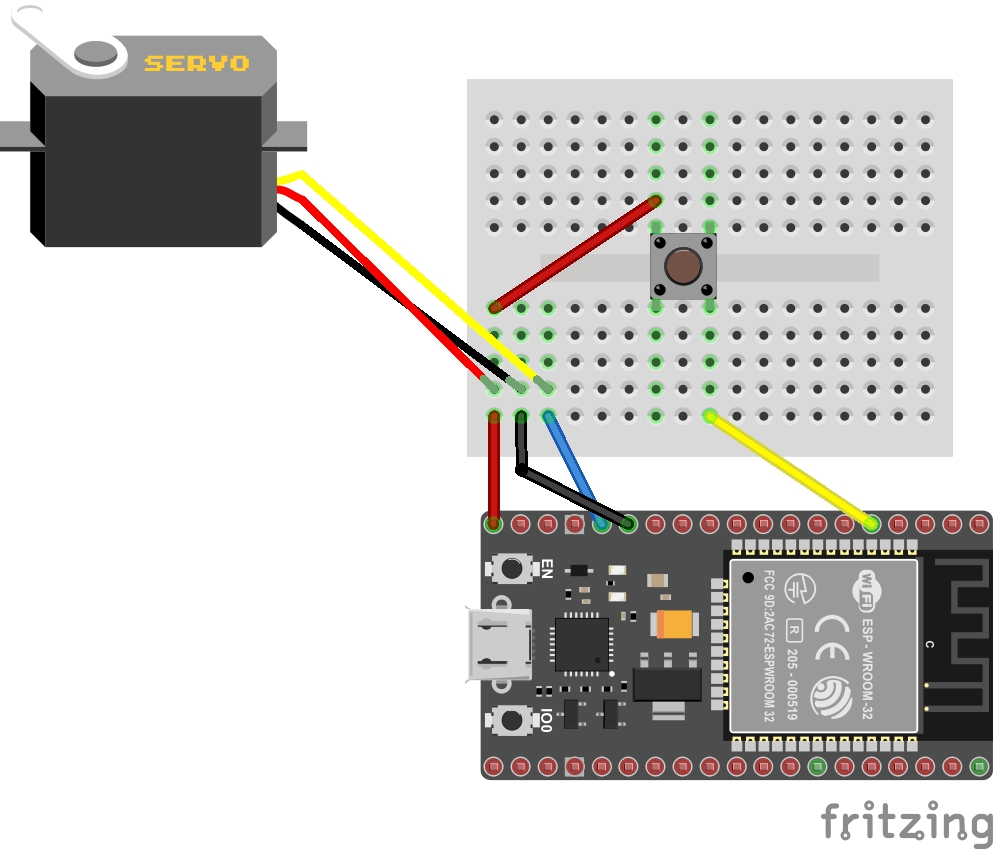
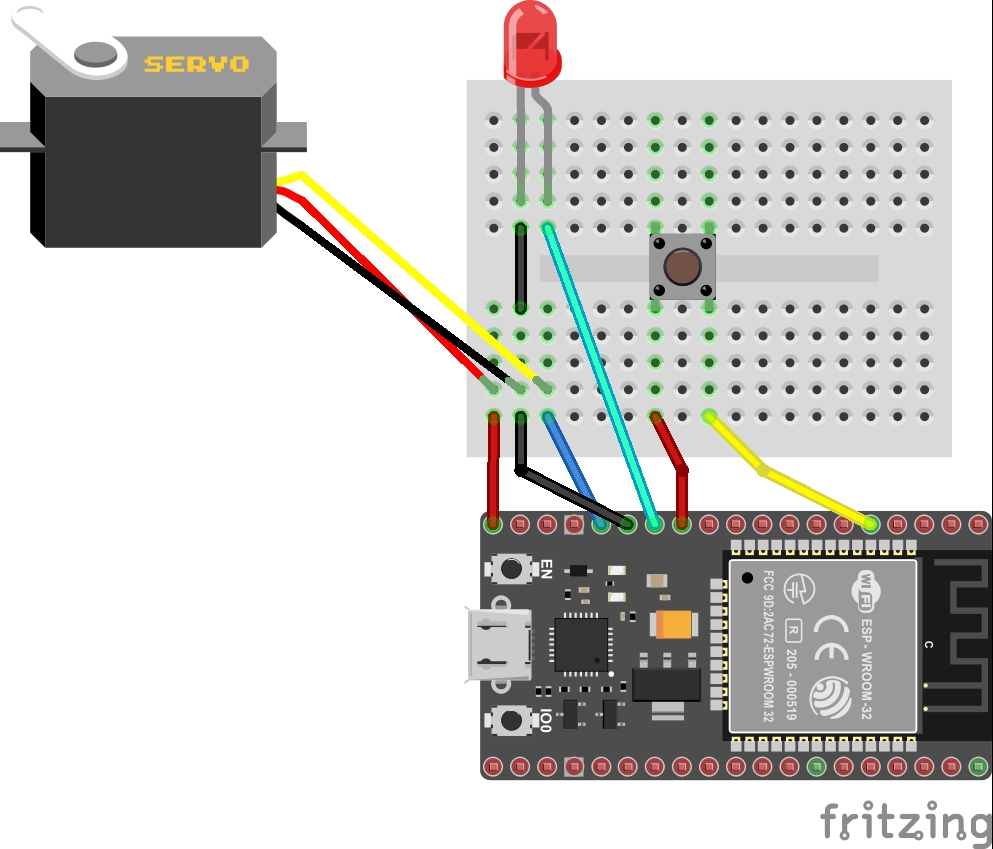
Convertido para projeto platformio

diff --git a/src/main.cpp b/src/main.cpp
@@ -8,10 +8,18 @@
 #define BAUD_RATE         115200             
 #define BUTTON_PIN        34
 #define RELAY_PIN         13
+#define LIGHT_OPEN_PIN         12
+#define ALWAYS_ON_PIN         14
   
 bool myPowerState = false;
 unsigned long lastBtnPress = 0;
 Servo servo1;
+
+void action(){
+  //digitalWrite(RELAY_PIN, myPowerState?LOW:HIGH); // if myPowerState indicates device turned on: turn on led (builtin led uses inverted logic: LOW = LED ON / HIGH = LED OFF)
+  servo1.write(myPowerState?0:160);    
+  digitalWrite(LIGHT_OPEN_PIN, myPowerState?HIGH:LOW);
+}
 
 /* bool onPowerState(String deviceId, bool &state) 
  *
@@ -31,23 +39,22 @@ bool onPowerState(const String &deviceId, bool &state) {
   myPowerState = state;
 
   //digitalWrite(RELAY_PIN, myPowerState?LOW:HIGH);
-  servo1.write(myPowerState?0:90);
+  action();
 
   return true; 
 }
 
 void handleButtonPress() {
   unsigned long actualMillis = millis(); 
-  
-  if (digitalRead(BUTTON_PIN) == HIGH  && actualMillis - lastBtnPress > 1000)  {   
+  int val = analogRead(BUTTON_PIN);  
+  if (val == 4095  && actualMillis - lastBtnPress > 1000)  {   
     if (myPowerState) {     // flip myPowerState: if it was true, set it to false, vice versa
       myPowerState = false;
     } else {
       myPowerState = true;
     }
-    //digitalWrite(RELAY_PIN, myPowerState?LOW:HIGH); // if myPowerState indicates device turned on: turn on led (builtin led uses inverted logic: LOW = LED ON / HIGH = LED OFF)
-    servo1.write(myPowerState?0:90);
-
+   
+    action();
     if (SinricPro.isConnected() == false) {
       Serial.printf("Not connected to Sinric Pro...!\r\n");
       return; 
@@ -62,6 +69,7 @@ void handleButtonPress() {
     lastBtnPress = actualMillis;  // update last button press variable
   } 
 }
+
 
 // setup function for WiFi connection
 void setupWiFi() {
@@ -98,6 +106,10 @@ void setupSinricPro() {
 void setup() {
   
   pinMode(BUTTON_PIN, INPUT);  
+  pinMode(LIGHT_OPEN_PIN,OUTPUT);
+  pinMode(ALWAYS_ON_PIN,OUTPUT);
+
+  digitalWrite(ALWAYS_ON_PIN,HIGH);
   
   servo1.attach(RELAY_PIN);    
 
@@ -107,7 +119,7 @@ void setup() {
 }
 
 void loop() {
-  handleButtonPress();
-  SinricPro.handle();
+  handleButtonPress();  
+  SinricPro.handle(); 
 }
 
